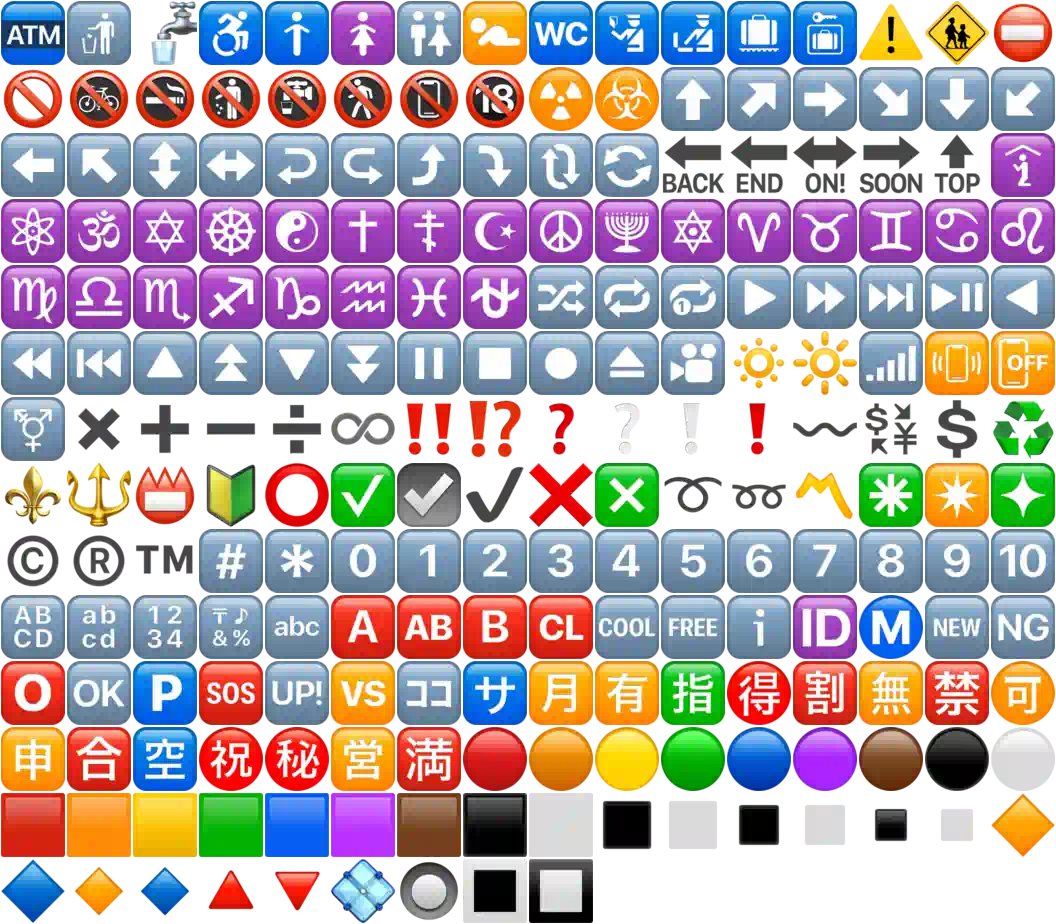
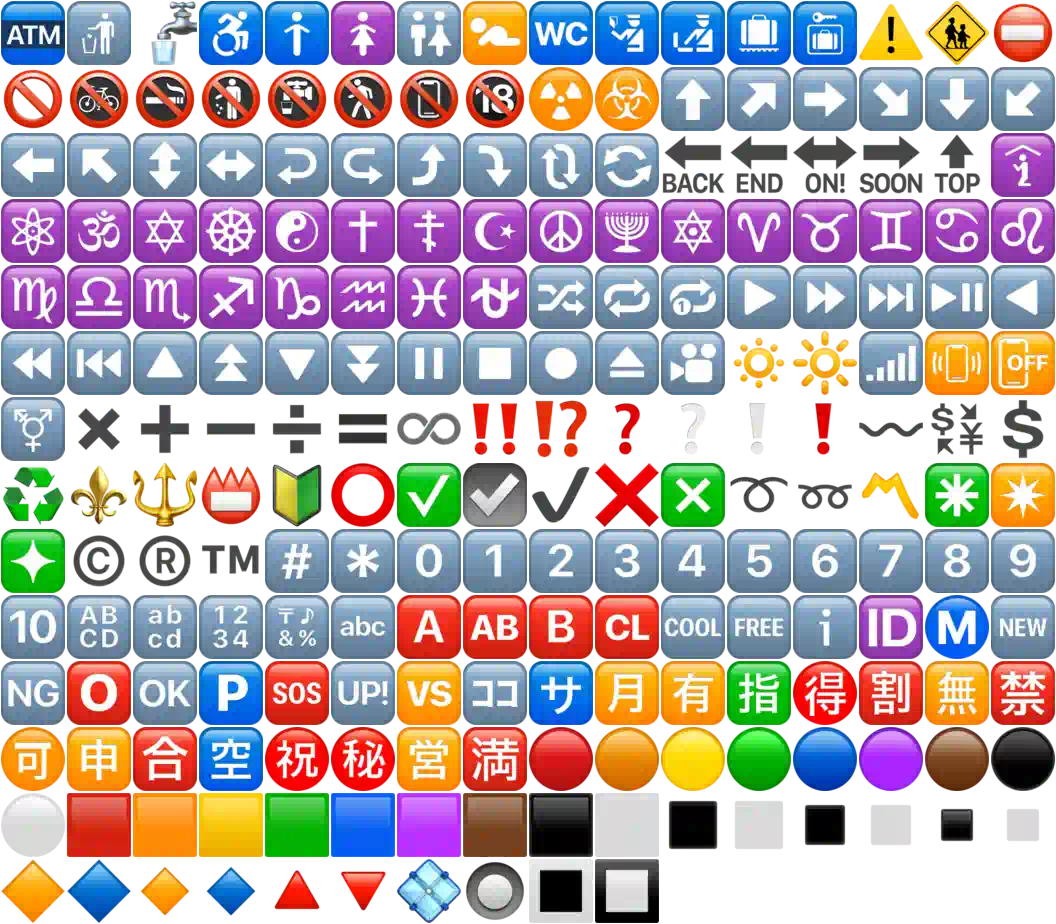
Updated emoji to version 14.0

diff --git a/app/src/main/java/org/thoughtcrime/securesms/jobs/DownloadLatestEmojiDataJob.java b/app/src/main/java/org/thoughtcrime/securesms/jobs/DownloadLatestEmojiDataJob.java
@@ -75,10 +75,10 @@ public class DownloadLatestEmojiDataJob extends BaseJob {
     }
   }
 
-  public DownloadLatestEmojiDataJob(boolean force) {
+  public DownloadLatestEmojiDataJob(boolean ignoreAutoDownloadConstraints) {
     this(new Job.Parameters.Builder()
              .setQueue(QUEUE_KEY)
-             .addConstraint(force ? NetworkConstraint.KEY : AutoDownloadEmojiConstraint.KEY)
+             .addConstraint(ignoreAutoDownloadConstraints ? NetworkConstraint.KEY : AutoDownloadEmojiConstraint.KEY)
              .setMaxInstancesForQueue(1)
              .setMaxAttempts(5)
              .setLifespan(TimeUnit.DAYS.toMillis(1))
@@ -126,10 +126,10 @@ public class DownloadLatestEmojiDataJob extends BaseJob {
       EmojiData    emojiData          = downloadJson(context, targetVersion);
       List<String> supportedDensities = emojiData.getDensities();
       String       format             = emojiData.getFormat();
-      List<String> imagePaths = Stream.of(emojiData.getDataPages())
-                                      .map(EmojiPageModel::getSpriteUri)
-                                      .map(Uri::getLastPathSegment)
-                                      .toList();
+      List<String> imagePaths         = Stream.of(emojiData.getDataPages())
+                                              .map(EmojiPageModel::getSpriteUri)
+                                              .map(Uri::getLastPathSegment)
+                                              .toList();
 
       String density = resolveDensity(supportedDensities, targetVersion.getDensity());
       targetVersion = new EmojiFiles.Version(targetVersion.getVersion(), targetVersion.getUuid(), density);

diff --git a/app/src/main/java/org/thoughtcrime/securesms/migrations/ApplicationMigrations.java b/app/src/main/java/org/thoughtcrime/securesms/migrations/ApplicationMigrations.java
@@ -101,9 +101,10 @@ public class ApplicationMigrations {
     static final int PNI_IDENTITY_2                = 57;
     static final int PNI_IDENTITY_3                = 58;
     static final int STORY_DISTRIBUTION_LIST_SYNC  = 59;
+    static final int EMOJI_VERSION_7               = 60;
   }
 
-  public static final int CURRENT_VERSION = 59;
+  public static final int CURRENT_VERSION = 60;
 
   /**
    * This *must* be called after the {@link JobManager} has been instantiated, but *before* the call
@@ -439,6 +440,10 @@ public class ApplicationMigrations {
 
     if (lastSeenVersion < Version.STORY_DISTRIBUTION_LIST_SYNC) {
       jobs.put(Version.STORY_DISTRIBUTION_LIST_SYNC, new StorageServiceMigrationJob());
+    }
+
+    if (lastSeenVersion < Version.EMOJI_VERSION_7) {
+      jobs.put(Version.EMOJI_VERSION_7, new EmojiDownloadMigrationJob());
     }
 
     return jobs;
